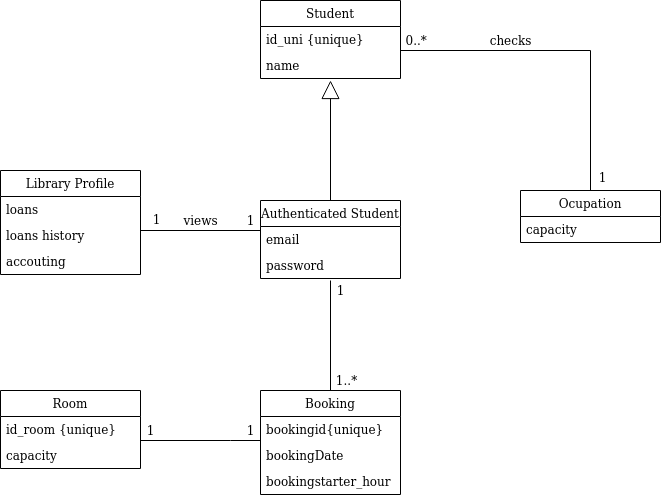
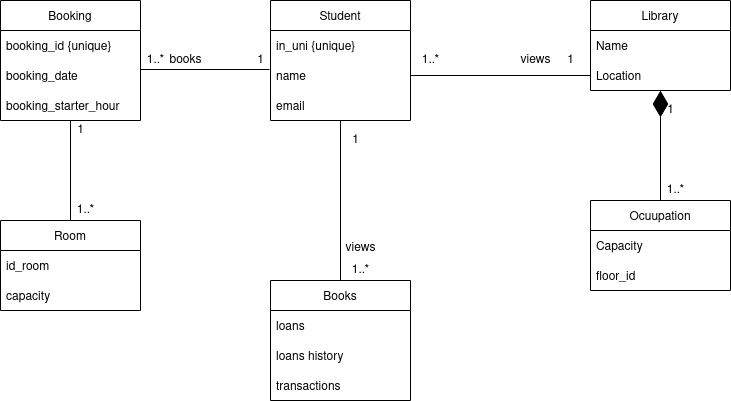
Domain model updated and improved

diff --git a/docs/domainmodel.md b/docs/domainmodel.md
@@ -1,15 +1,11 @@
 # Domain model
 
-![domain_model](src/domainmodel.png)
+![domain_model](src/DomainModelv2.png)
 
 <table>
   <tr>
     <td>Student</td>
-    <td>Represents the student even if is authenticated or not</td>
-  </tr>
-  <tr>
-    <td>Authenticated Student</td>
-    <td> The student with more privileges </td>
+    <td>Represents the authenticated student</td>
   </tr>
   <tr>
     <td>Room</td>
@@ -18,19 +14,25 @@
   <tr>
     <td>Ocupation</td>
     <td>
-      The number of students in the library
+      The number of students in the library in each floor
     </td>
   </tr>
   <tr>
-    <td>Library Profile</td>
+    <td>Library</td>
     <td>
-       Informations about requests of students
+       Informations about the library
     </td>
   </tr>
   <tr>
     <td>Booking</td>
     <td>
      Represents the requests to book a room
+    </td>
+  </tr>
+  <tr>
+    <td>Books</td>
+    <td>
+     Shows the data of the loans and past transactions
     </td>
   </tr>
 </table>
